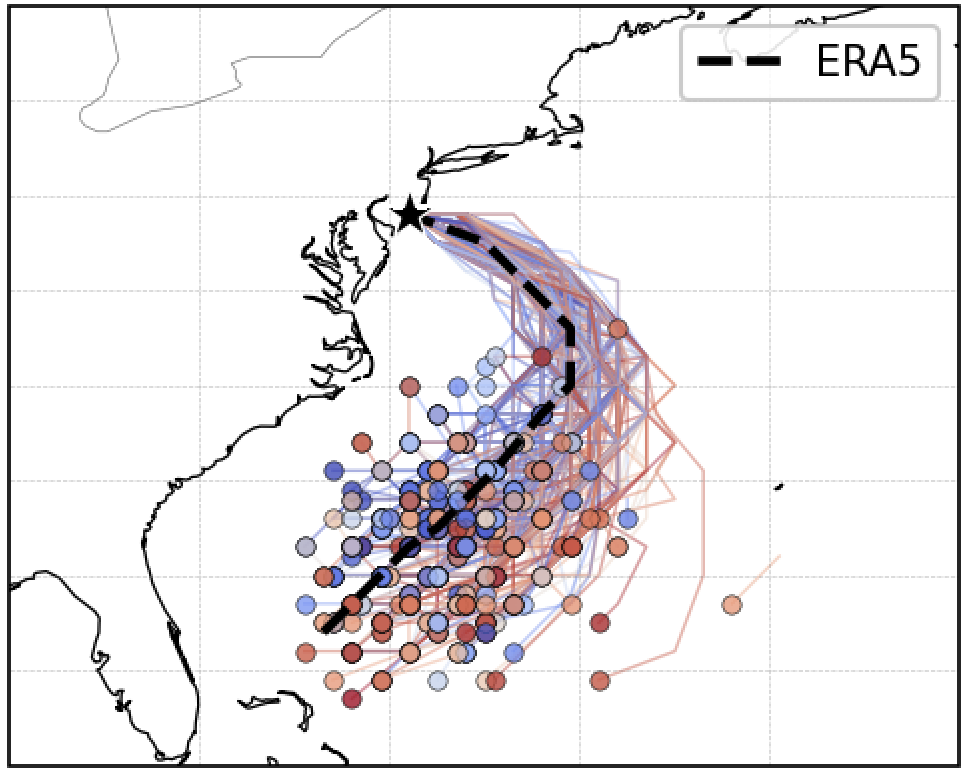
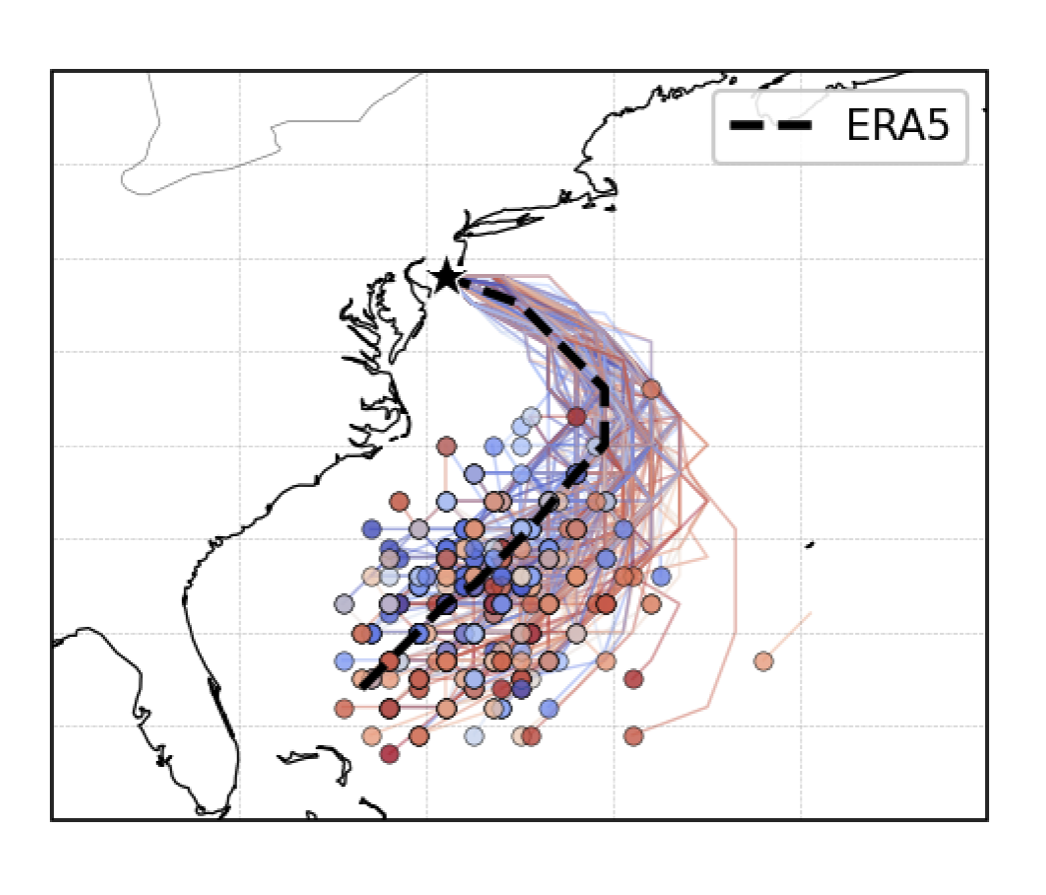
updated research and news content

diff --git a/_projects/4_coupled_futures.md b/_projects/4_coupled_futures.md
@@ -1,0 +1,20 @@
+---
+layout: page
+title: Human-Earth Futures
+description: Exploring the coupled human-Earth system to understand future trajectories and potential impacts.
+img: assets/img/research/trade_worst.png # add an image in assets/img/ and reference it here for a thumbnail
+importance: 1
+category: research
+---
+
+{% include figure.liquid loading="eager" path="assets/img/research/trade_worst.png" class="img-fluid rounded z-depth-1" alt="Human-Earth Futures research figure" %}
+
+<p class="caption" style="color: var(--global-text-color-light);">We explore the range of possibilities for caloric trade worldwide under different internal variability trajectories. This figure shows that some countries could have up to 90\% of their calories under climate stress from internal variability alone. Figure from Keys et al. (2025).</p>
+
+The Earth system and human decisions shape each other. We study possible futures of that coupled system.
+
+Some examples include:
+
+- Modeling the potential environmental impacts of solar climate intervention under a range of scenarios
+- Sampling a range of possibilities of interactions between global trade and climate variability
+- Mapping the human footprint on the land surface

diff --git a/_projects/5_s2d_prediction.md b/_projects/5_s2d_prediction.md
@@ -1,0 +1,20 @@
+---
+layout: page
+title: Daily-to-Decadal Prediction
+description: Quantifying the predictability of the Earth system on daily to decadal timescales.
+img: assets/img/research/analog_masks_martin.png # add an image in assets/img/ and reference it here for a thumbnail
+importance: 1
+category: research
+---
+
+{% include figure.liquid loading="eager" path="assets/img/research/analog_masks_martin.png" class="img-fluid rounded z-depth-1" alt="Daily-to-Decadal Prediction research figure" %}
+
+<p class="caption" style="color: var(--global-text-color-light);">Learned masks for analog forecasting. These maps highlight the regions where the model has learned to focus on for accurate regional predictions. Figure by Dr. Martin Fernandez and adapted from Fernandez and Barnes (2026).</p>
+
+Daily-to-decadal Earth system prediction is very different from standard weather forecasting: too far out for weather models to hold skill, too short for the forced climate signal to rise above the noise. We look for forecasts of opportunity — states where skill is temporarily high — and build the tools, including fast AI emulators, to find and use them.
+
+Some examples include:
+
+- Building fast, interpretable prediction systems that can be used to explore the predictability of the Earth system
+- Identifying climate patterns that provide enhanced predictability across time scales
+- Developing statistical approaches to quantify uncertainty due to a range of sources, including data drift and out-of-distribution data

diff --git a/_projects/1_ai_for_science.md b/_projects/1_ai_for_science.md
@@ -2,19 +2,18 @@
 layout: page
 title: AI for Science
 description: Building and implementing interpretable AI to advance scientific understanding.
-img: # add an image in assets/img/ and reference it here for a thumbnail
+img: assets/img/research/Hurricane_Floyd.jpg # add an image in assets/img/ and reference it here for a thumbnail
 importance: 1
 category: research
 ---
 
-{% include figure.liquid loading="eager" path="assets/img/ai_for_science.png" class="img-fluid rounded z-depth-1" alt="AI for Science research figure" %}
+{% include figure.liquid loading="eager" path="assets/img/research/tc_genesis_muting.png" class="img-fluid rounded z-depth-1" alt="AI for Science research figure" %}
 
-<p class="caption" style="color: var(--global-text-color-light);">Figure caption — result + source</p>
+<p class="caption" style="color: var(--global-text-color-light);">We evaluated the performance of AI climate models (right) to simulate tropical cyclone genesis. Figure by Dr. Mu-Ting Chien and adapated from Chien et al. (2025).</p>
 
-We build neural networks to forecast and represent the Earth system, then study what they learned — which regions, variables, and relationships drive a prediction — to find sources of predictability we can test against physical understanding. A model that predicts well has, in effect, proposed a hypothesis about how the system works. Our job is to read that hypothesis back out and check it.
+We build and use deep-learning to study and understandthe Earth system.
 
-In practice:
+Some examples include:
 
-- Interpretable architectures whose internal logic maps onto physical quantities
-- Attribution and feature-importance methods applied to climate and weather fields
-- Turning explanations into testable claims about the Earth system, not post-hoc stories
+- Exploring the sensitivity of rainfall to sea-surface temperature patterns
+- Addressing how past tropical cyclone activity varied with climate and solar forcing

diff --git a/_projects/6_var_and_change.md b/_projects/6_var_and_change.md
@@ -2,19 +2,18 @@
 layout: page
 title: Variability and Change
 description: Investigating variability in the Earth system and its implications for past and future change.
-img: # add an image in assets/img/ and reference it here for a thumbnail
+img: assets/img/research/ce_ashley_single.png # add an image in assets/img/ and reference it here for a thumbnail
 importance: 1
 category: research
 ---
 
-{% include figure.liquid loading="eager" path="assets/img/var_and_change.png" class="img-fluid rounded z-depth-1" alt="Variability and Change research figure" %}
+{% include figure.liquid loading="eager" path="assets/img/research/ce_ashley_single.png" class="img-fluid rounded z-depth-1" alt="Variability and Change research figure" %}
 
-<p class="caption" style="color: var(--global-text-color-light);">Figure caption — result + source</p>
+<p class="caption" style="color: var(--global-text-color-light);">Conditional frequencies of compound extremes under El Nino conditions. Figure by Ashley Dwyer and adapted from Dwyer et al. (2026).</p>
 
 Telling change apart from noise is a core problem in climate science. We work to separate internal variability from forced change across the historical record and into the future, with particular attention to extremes — the rare events that matter most and that we have the least data to constrain.
 
-In practice:
+Some examples include:
 
-- Internal variability vs. forced response: detection and attribution with ML
-- Large ensembles and emulators to characterize the likelihood of rare and unprecedented events
-- How variability and change reshape predictability itself
+- Large ensembles and emulators to characterize the frequency and drivers of compound extremes
+- Internal variability vs. forced response: detection and attribution

diff --git a/_projects/2_science_of_ai.md b/_projects/2_science_of_ai.md
@@ -2,18 +2,18 @@
 layout: page
 title: Science of AI
 description: How do AI models learn from Earth system data? How can we make them more interpretable?
-img: # add an image in assets/img/ and reference it here for a thumbnail
+img: assets/img/research/ar_forgetting_wade_small.png # add an image in assets/img/ and reference it here for a thumbnail
 importance: 1
 category: research
 ---
 
-{% include figure.liquid loading="eager" path="assets/img/science_of_ai.png" class="img-fluid rounded z-depth-1" alt="Science of AI research figure" %}
+{% include figure.liquid loading="eager" path="assets/img/research/ar_forgetting_wade_long.png" class="img-fluid rounded z-depth-1" alt="Science of AI research figure" %}
 
-<p class="caption" style="color: var(--global-text-color-light);">Figure caption — result + source</p>
+<p class="caption" style="color: var(--global-text-color-light);">Watching an AI weather model learn to forecast an atmospheric river, and then forget what it learned at checkpoint 27. Figure by Annabel Wade.</p>
 
-Here the model is the object of study. We ask how networks trained on Earth system data actually learn: what they pick up first, what they ignore, how confident they are, and where they break. Understanding the model is a prerequisite for trusting it — and for knowing when a good score is hiding a shortcut.
+Here the deep-learning model is the object of study. We ask how networks trained on Earth system data actually learn: what they pick up first, what they ignore, how confident they are, and where they break. Understanding the model is a prerequisite for trusting it and correcting it when it is wrong.
 
-In practice:
+Some examples include:
 
 - Training dynamics — what a network learns over the course of training, treated as evidence in its own right
 - Separating what a model doesn't know (epistemic) from what is genuinely unknowable (aleatoric), and letting it abstain when it should

diff --git a/_projects/3_emulator_labs.md b/_projects/3_emulator_labs.md
@@ -19,12 +19,12 @@ category: research
   </div>
 </div>
 
-<p class="caption" style="color: var(--global-text-color-light);">Using cbottle-video we steer the trajectories of tropical cyclones in AI emulators to simulate a range of possibilities for use in planning and scenario design. By Jerry Lin.</p>
+<p class="caption" style="color: var(--global-text-color-light);">Using cbottle-video we steer the trajectories of tropical cyclones in AI emulators to simulate a range of possibilities for use in planning and scenario design. Figure by Dr. Jerry Lin.</p>
 
-A fast emulator is more than a forecast engine. Because it runs cheaply and can be differentiated, it lets us run experiments that conventional models are too slow or too rigid to allow — on the climate it represents, and on the model itself. We use emulators as instruments: to ask what-if, to estimate how often rare events should occur, and to interrogate what a model has actually learned.
+A fast emulator is more than a forecast machine. Because it runs cheaply and can be differentiated, it lets us run experiments that conventional models are too slow or too rigid to allow. We use emulators as instruments: to ask what-if, to estimate how often rare events should occur, and to interrogate what a model has actually learned.
 
-In practice:
+Some examples include:
 
-- Counterfactual and rewinding weather trajectories to run the system backwards
+- Rewinding weather trajectories to run the system backwards
 - Estimating the likelihood of rare and unprecedented events from large emulator ensembles
-- Reinforcement learning as a diagnostic — using an emulator as an environment to surface what a model knows and where it breaks
+- Reinforcement learning as a diagnostic — using an emulator as an environment to uncover what a model knows and where it breaks

diff --git a/_news/announcement_2017-05-30-initial-news.md b/_news/announcement_2017-05-30-initial-news.md
@@ -1,0 +1,8 @@
+---
+layout: post
+date: 2017-05-30 12:00:00-0400
+inline: true
+related_posts: false
+---
+
+Our group starts keeping track of news :)

diff --git a/_news/announcement_2026-01-01-kyoung-joins-group.md b/_news/announcement_2026-01-01-kyoung-joins-group.md
@@ -5,4 +5,4 @@ inline: true
 related_posts: false
 ---
 
-Kyoung joins the group as a postdoc.
+Kyoung joins the group as a postdoc!

diff --git a/_news/announcement_2026-04-20-luke-howard-joins-group.md b/_news/announcement_2026-04-20-luke-howard-joins-group.md
@@ -5,4 +5,4 @@ inline: true
 related_posts: false
 ---
 
-Luke Howard joins the group as a postdoc.
+Luke Howard joins the group as a postdoc!

diff --git a/_news/announcement_2026-05-01-will-kamp-joins-group.md b/_news/announcement_2026-05-01-will-kamp-joins-group.md
@@ -5,4 +5,4 @@ inline: true
 related_posts: false
 ---
 
-Will Kamp joins the group as a postdoc.
+Will Kamp joins the group as a postdoc!